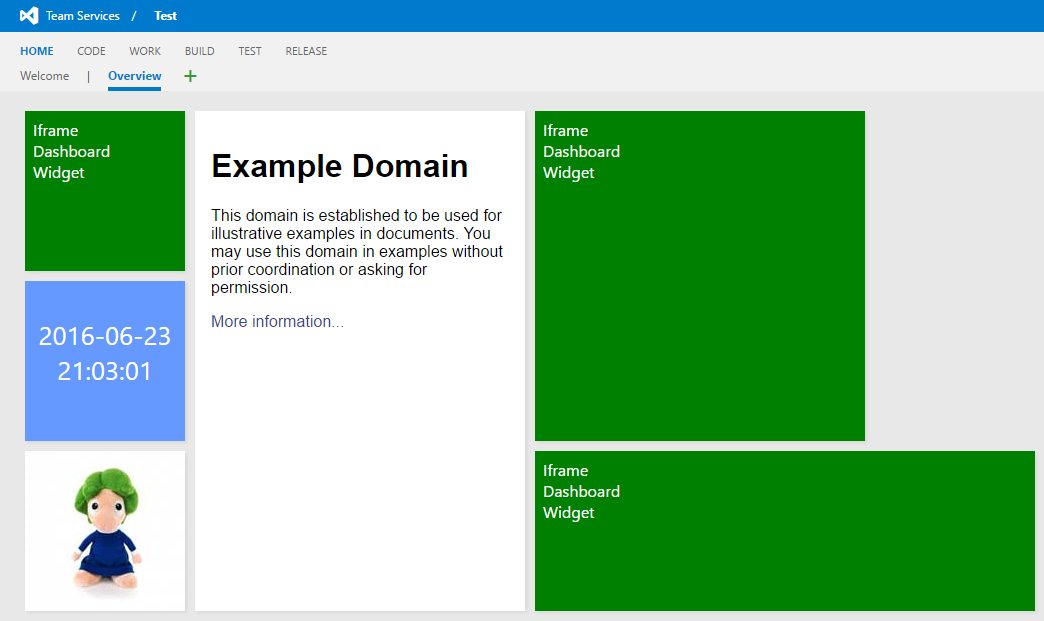
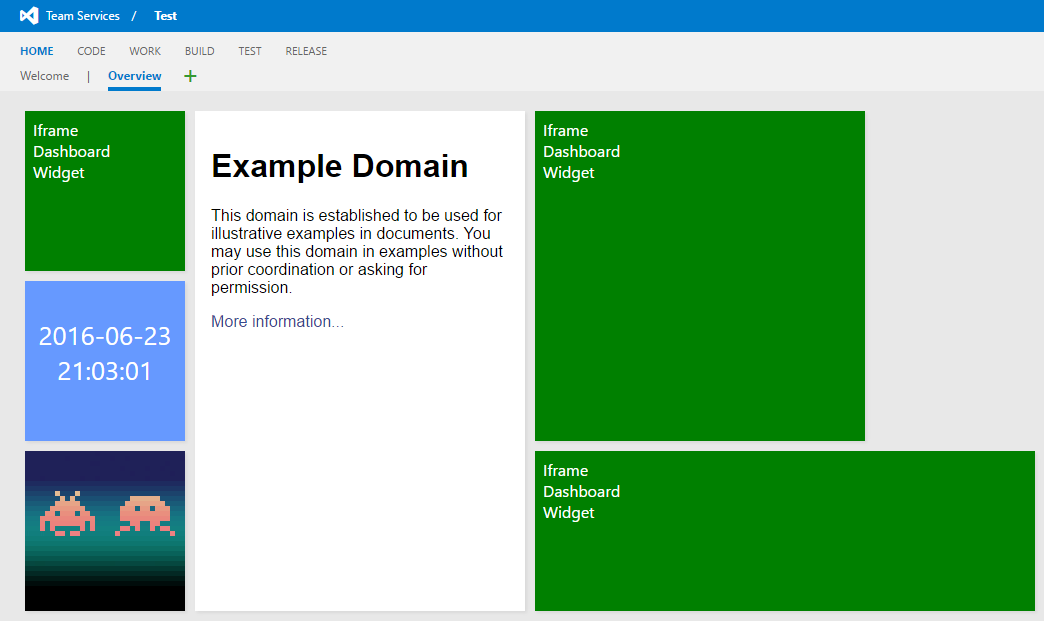
Updated screenshots.

Changed region(s): [[0.0, 0.7037, 0.1839, 1.0]]

diff --git a/IframeDashboardWidget/overview.md b/IframeDashboardWidget/overview.md
@@ -9,6 +9,13 @@ urls will not work due to browser security.
 ## Some examples of how you can use
 ![](img/iframe-dashboard-widget-preview.png)
 
+Urls used in the screenshot above.
+
+ * `https://example.com`
+ * `data:text/html,<html><body style="background-color:#69f;color:#fff;font:26px Segoe UI,Frutiger,Frutiger Linotype,Dejavu Sans,Helvetica Neue,Arial,sans-serif"><div id="time" style="text-align:center;margin-top:36px"></div></body><script>setInterval(function(){document.getElementById('time').innerHTML = (new Date()).toISOString().replace(/T/g, '<br />').replace(/\..*/g, '')}, 100)</script></html>`
[1 lines of base64/hex data omitted]
+
 ## The configuration pane
 ![](img/iframe-dashboard-widget-configuration.png)
+
 
